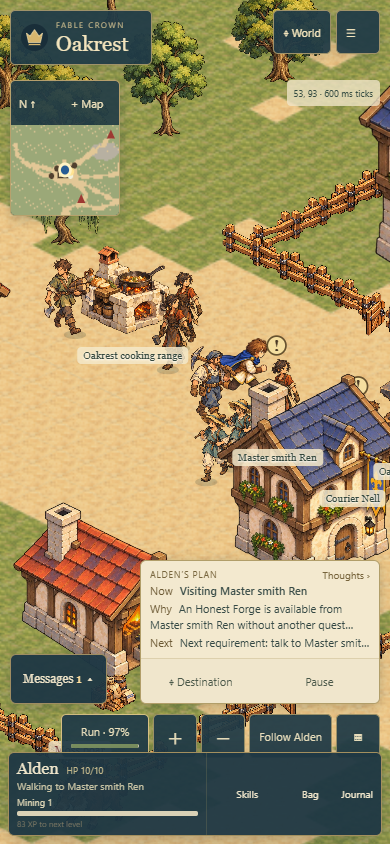
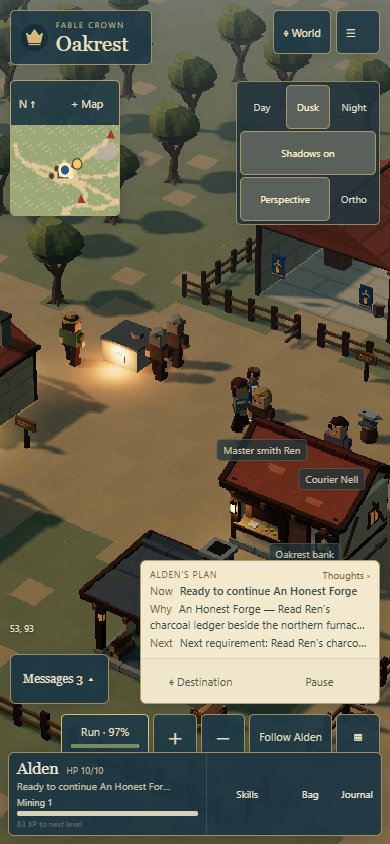
Make 3D the default game renderer

diff --git a/src/render/ThreeScene.tsx b/src/render/ThreeScene.tsx
@@ -9,9 +9,9 @@ import type { LightingPreset } from "./three/lighting";
 import "./tile-scene.css";
 import "./three/three-scene.css";
 
-export interface ThreeSceneProps extends TileSceneProps { onFallback?: () => void }
+export interface ThreeSceneProps extends TileSceneProps { onFallback: () => void }
 
-/** Optional renderer only: it consumes the same immutable snapshots as the painterly view. */
+/** The game view consumes immutable simulation snapshots. */
 export default function ThreeScene(props: ThreeSceneProps) {
   const root = useRef<HTMLDivElement>(null), canvas = useRef<HTMLCanvasElement>(null);
   const runtime = useRef<ThreeRuntime | null>(null);
@@ -47,10 +47,6 @@ export default function ThreeScene(props: ThreeSceneProps) {
     return () => { active = false; controller.abort(); runtime.current?.dispose(); runtime.current = null; };
   }, []);
   useEffect(() => { runtime.current?.update(latest.current); });
-  const fallback = () => {
-    if (props.onFallback) props.onFallback();
-    else { const url = new URL(location.href); url.searchParams.delete("renderer"); location.assign(url); }
-  };
   const bind = (key: string) => (element: HTMLElement | null) => {
     if (element) hits.current.set(key, element); else hits.current.delete(key);
   };
@@ -63,9 +59,10 @@ export default function ThreeScene(props: ThreeSceneProps) {
   return (
     <div ref={root} className="tile-world three-world" data-testid="rpg-world" data-renderer="3d" data-status={status} data-lighting={lighting} data-assets={assets.source} data-production-assets={assets.ids.join(",")}>
       <canvas ref={canvas} data-testid="three-canvas" aria-label="The 3D Fable Crown frontier. Drag to pan, wheel or pinch to zoom. Arrow keys pan when focused." tabIndex={0} />
-      {status !== "unavailable" && <>
-        <div className="three-light-controls" role="group" aria-label="3D lighting preview">
-          <span>3D TEST</span>
+      {status === "starting" && <div className="loading-screen" aria-live="polite">Opening the village…</div>}
+      {status === "ready" && <>
+        <div className="three-light-controls" role="group" aria-label="View settings">
+          <span>VIEW</span>
           {(["day", "dusk", "night"] as const).map(preset => <button key={preset} aria-label={`${preset[0].toUpperCase()}${preset.slice(1)} lighting`} aria-pressed={lighting === preset} onClick={() => setLighting(preset)}>{preset[0].toUpperCase()}{preset.slice(1)}</button>)}
           <button aria-label="Sun shadows" aria-pressed={shadows} onClick={() => setShadows(value => !value)}>Shadows {shadows ? "on" : "off"}</button>
           <button aria-label="Perspective camera" aria-pressed={cameraMode === "perspective"} onClick={() => setCameraMode("perspective")}>Perspective</button>
@@ -94,10 +91,21 @@ export default function ThreeScene(props: ThreeSceneProps) {
           {!props.camera.overview && props.state.grave && <button ref={bind("grave")} className="tile-grave" aria-label="Inspect your backpack grave" data-three-selection={JSON.stringify({ kind: "grave" })} onClick={event => keyboardSelect(event, { kind: "grave" })}><span>Backpack grave</span></button>}
           {(props.feedback ?? []).map(floater => <span ref={bind(`feedback-${floater.id}`)} className={`three-feedback three-feedback-${floater.tone}`} key={floater.id}>{floater.text}</span>)}
         </div>
-        {props.state.player.action && !props.state.player.path.length && <div className="tile-progress-accessible"><span role="progressbar" aria-label={`${props.state.player.action.kind} action progress`} aria-valuemin={0} aria-valuemax={props.state.player.action.duration} aria-valuenow={props.state.player.action.duration - props.state.player.action.remaining} /></div>}
-        <span className="three-test-note" title={assets.warning || undefined}>Pixel-textured 3D · {assets.source === "blender" ? "Blender assets" : assets.source === "loading" ? "Loading models…" : "Procedural models"} · {props.state.player.position.x}, {props.state.player.position.y}</span>
+        <div className="tile-progress-accessible">
+          {[props.state.player, ...props.state.npcs].filter(actor => actor.action && !actor.path.length &&
+            (actor.id === 0 || props.selection?.kind === "actor" && props.selection.id === actor.id)).map(actor => {
+            const action = actor.action!;
+            const object = world.objects.find(value => value.id === action.targetId);
+            const label = action.kind === "gather" ? object?.kind === "rock" ? "Mining" : object?.kind === "tree" ? "Woodcutting" : "Fishing"
+              : action.kind === "craft" ? action.recipeId?.includes("cook") ? "Cooking" : "Crafting" : action.kind;
+            return <span key={actor.id} role="progressbar" aria-label={`${label} action progress`} aria-valuemin={0}
+              aria-valuemax={action.duration} aria-valuenow={action.duration - action.remaining}
+              aria-valuetext={`${actor.name}: ${action.duration - action.remaining} of ${action.duration} ticks`} />;
+          })}
+        </div>
+        <span className="three-test-note">{props.state.player.position.x}, {props.state.player.position.y}</span>
       </>}
-      {status === "unavailable" && <section className="three-fallback" aria-label="3D renderer unavailable"><h2>3D view unavailable</h2><p>{failure}</p><button onClick={fallback}>Use painterly view</button></section>}
+      {status === "unavailable" && <section className="three-fallback" aria-label="3D renderer unavailable"><h2>3D view unavailable</h2><p>{failure}</p><button onClick={props.onFallback}>Use compatibility view</button></section>}
     </div>
   );
 }

diff --git a/tests/rpg-three.spec.ts b/tests/rpg-three.spec.ts
@@ -64,12 +64,11 @@ function waitingFixture() {
   return state;
 }
 
-test("3D is opt-in, issues real WebGL draws and preserves the chapter when switching", async ({ page }) => {
+test("the default game uses 3D and preserves the chapter and archives across reloads", async ({ page }) => {
   const errors: string[] = [];
   page.on("pageerror", (error) => errors.push(error.message));
   await page.goto("./");
-  await expect(page.getByTestId("rpg-world")).toBeVisible();
-  await expect(page.getByTestId("three-canvas")).toHaveCount(0);
+  await ready(page);
   const fixture = waitingFixture();
   await restore(page, fixture);
   const archive = createGame(Date.now());
@@ -85,7 +84,9 @@ test("3D is opt-in, issues real WebGL draws and preserves the chapter when switc
     };
   }), archive);
   await menu(page);
-  await page.getByRole("button", { name: "Use 3D test renderer" }).click();
+  await expect(page.getByRole("button", { name: "Use 3D test renderer" })).toHaveCount(0);
+  await expect(page.getByRole("button", { name: "Use painterly renderer" })).toHaveCount(0);
+  await expect(page.getByRole("button", { name: "Open asset viewer", exact: true })).toBeVisible();
   await closePanel(page);
   const world = await ready(page);
   await expect.poll(async () => Number(await world.getAttribute("data-draw-calls"))).toBeGreaterThan(0);
@@ -100,15 +101,16 @@ test("3D is opt-in, issues real WebGL draws and preserves the chapter when switc
   await page.getByTestId("rpg-world").getByRole("button", { name: "Inspect Alden", exact: true }).click();
   await expect(page.getByRole("region", { name: "Character details" })).toBeVisible();
   const before = await saved(page);
-  await menu(page);
-  await page.getByRole("button", { name: "Use painterly renderer" }).click();
-  await closePanel(page);
-  await expect(page.getByTestId("three-canvas")).toHaveCount(0);
+  await page.reload();
+  await ready(page);
   const after = await saved(page);
   expect(after.player.inventory).toEqual(before.player.inventory);
   expect(after.player.skills).toEqual(before.player.skills);
   expect(after.player.position).toEqual(before.player.position);
   expect(after.version).toBe(5);
+  // Existing shared preview links still open the same 3D game.
+  await page.goto("./?renderer=3d");
+  await ready(page);
   const archived = await page.evaluate(() => new Promise<unknown>((resolve, reject) => {
     const request = indexedDB.open("fable-crown", 1);
     request.onerror = () => reject(request.error);
@@ -213,8 +215,8 @@ test("3D camera and touch controls fit portrait and landscape without external r
   expect(errors).toEqual([]);
 });
 
-test("3D bundles and query route reload offline with the same saved chapter", async ({ page, context }) => {
-  await page.goto("./?renderer=3d");
+test("the default 3D game reloads offline with the same saved chapter", async ({ page, context }) => {
+  await page.goto("./");
   await ready(page);
   await restore(page, waitingFixture());
   const before = await saved(page);
@@ -227,7 +229,7 @@ test("3D bundles and query route reload offline with the same saved chapter", as
   try {
     await page.reload();
     await ready(page);
-    expect(new URL(page.url()).searchParams.get("renderer")).toBe("3d");
+    expect(new URL(page.url()).searchParams.has("renderer")).toBe(false);
     const after = await saved(page);
     expect(after.player.inventory).toEqual(before.player.inventory);
     expect(after.player.skills).toEqual(before.player.skills);
@@ -237,7 +239,7 @@ test("3D bundles and query route reload offline with the same saved chapter", as
   }
 });
 
-test("unavailable WebGL offers a working painterly fallback", async ({ page }) => {
+test("unavailable WebGL offers a working compatibility view without resetting the chapter", async ({ page }) => {
   await page.addInitScript(() => {
     const getContext = HTMLCanvasElement.prototype.getContext;
     HTMLCanvasElement.prototype.getContext = function (this: HTMLCanvasElement, ...args: Parameters<typeof getContext>) {
@@ -245,13 +247,20 @@ test("unavailable WebGL offers a working painterly fallback", async ({ page }) =
       return getContext.apply(this, args);
     } as typeof getContext;
   });
-  await page.goto("./?renderer=3d");
-  await page.getByRole("button", { name: "Use painterly view", exact: true }).click();
+  await page.goto("./");
+  const fixture = waitingFixture();
+  fixture.player.skills.woodcutting = 37;
+  await restore(page, fixture);
+  const before = await saved(page);
+  await page.getByRole("button", { name: "Use compatibility view", exact: true }).click();
   await expect(page.getByTestId("rpg-world")).toBeVisible();
   await expect(page.getByTestId("three-canvas")).toHaveCount(0);
-  expect(new URL(page.url()).searchParams.get("renderer")).not.toBe("3d");
   await page.getByRole("button", { name: "Open inventory" }).click();
   await expect(page.locator(".rpg-backpack button")).toHaveCount(28);
+  await closePanel(page);
+  const after = await saved(page);
+  expect(after.player.skills).toEqual(before.player.skills);
+  expect(after.player.inventory).toEqual(before.player.inventory);
 });
 
 test("all Blender assets load and switching camera projection preserves the saved character", async ({ page }) => {

diff --git a/src/rpg/RpgApp.tsx b/src/rpg/RpgApp.tsx
@@ -57,16 +57,7 @@ function download(value: unknown, name: string) {
   URL.revokeObjectURL(url);
 }
 export default function RpgApp() {
-  const [rendererMode, setRendererMode] = useState<"painterly" | "3d">(() =>
-    new URLSearchParams(location.search).get("renderer") === "3d" ? "3d" : "painterly",
-  );
-  const changeRenderer = (mode: "painterly" | "3d") => {
-    const url = new URL(location.href);
-    if (mode === "3d") url.searchParams.set("renderer", "3d");
-    else url.searchParams.delete("renderer");
-    history.replaceState(null, "", url);
-    setRendererMode(mode);
-  };
+  const [rendererMode, setRendererMode] = useState<"painterly" | "3d">("3d");
   const [state, setState] = useState<RpgState | null>(null),
     [camera, setCamera] = useState<TileCamera>({
       x: 52,
@@ -417,7 +408,7 @@ export default function RpgApp() {
       {state ? (
         <SceneHost
           mode={rendererMode}
-          onFallback={() => changeRenderer("painterly")}
+          onFallback={() => setRendererMode("painterly")}
           state={state}
           camera={camera}
           onCamera={setCamera}
@@ -1735,17 +1726,11 @@ export default function RpgApp() {
                 constant orders.
               </p>
               <div className="menu-grid">
-                <button
-                  aria-pressed={rendererMode === "3d"}
-                  onClick={() => changeRenderer(rendererMode === "3d" ? "painterly" : "3d")}
-                >
-                  {rendererMode === "3d" ? "Use painterly renderer" : "Use 3D test renderer"}
-                </button>
-                {rendererMode === "3d" && <button onClick={() => {
+                <button onClick={() => {
                   const url = new URL(location.href);
                   url.searchParams.set("assetReview", "1");
                   location.assign(url);
-                }}>Open art workbench</button>}
+                }}>Open asset viewer</button>
                 <button onClick={() => send("save")}>Save on device</button>
                 <button
                   onClick={() =>

diff --git a/tests/rpg-feel.spec.ts b/tests/rpg-feel.spec.ts
@@ -3,7 +3,7 @@ import { test, expect, type Page } from "@playwright/test";
 import { calendarDate, createRpg } from "../src/rpg/engine";
 import { ITEMS } from "../src/rpg/content";
 import { findPath } from "../src/rpg/world";
-import { tileToScreen } from "../src/render/iso";
+import { PerspectiveCamera, Vector3 } from "three";
 import type { RpgState } from "../src/rpg/types";
 
 const originalV4 = JSON.parse(
@@ -96,19 +96,23 @@ test("manual map movement is acknowledged and reaches its tile across mobile lay
   expect(target).toBeDefined();
   await importState(page, state);
   await expect(page.getByRole("status")).toContainText("Chronicle restored");
+  await page.getByRole("button", { name: "Close panel" }).click();
 
   const world = page.getByTestId("rpg-world");
+  await expect(world).toHaveAttribute("data-status", "ready");
+  await expect(world).toHaveAttribute("data-camera-x", "100.00");
+  await expect(world).toHaveAttribute("data-camera-y", "80.00");
   const bounds = await world.boundingBox();
   expect(bounds).not.toBeNull();
-  const zoom = 0.85;
-  const center = tileToScreen({
-    x: state.player.position.x,
-    y: state.player.position.y + 2 / zoom,
-  });
-  const destination = tileToScreen(target!);
+  const camera = new PerspectiveCamera(20, bounds!.width / bounds!.height, .1, 650);
+  const distance = (24 / .85) / (2 * Math.tan(Math.PI / 18));
+  camera.position.set(100, .4, 80).addScaledVector(new Vector3(32, 37, 45).normalize(), distance);
+  camera.lookAt(100, .4, 80);
+  camera.updateMatrixWorld();
+  const destination = new Vector3(target!.x, 0, target!.y).project(camera);
   const point = {
-    x: bounds!.width / 2 + (destination.x - center.x) * zoom,
-    y: bounds!.height / 2 + (destination.y - center.y) * zoom,
+    x: (destination.x + 1) * bounds!.width / 2,
+    y: (1 - destination.y) * bounds!.height / 2,
   };
   await page.mouse.click(bounds!.x + point.x, bounds!.y + point.y);
   await expect(page.getByLabel("Command acknowledgement")).toContainText(

diff --git a/src/render/SceneHost.tsx b/src/render/SceneHost.tsx
@@ -1,7 +1,8 @@
 import { Component, lazy, Suspense, type ReactNode } from "react";
-import TileScene, { type TileSceneProps } from "./TileScene";
+import type { TileSceneProps } from "./TileScene";
 
 const ThreeScene = lazy(() => import("./ThreeScene"));
+const CompatibilityScene = lazy(() => import("./TileScene"));
 
 class RendererBoundary extends Component<
   { children: ReactNode; onFallback: () => void },
@@ -13,23 +14,22 @@ class RendererBoundary extends Component<
     return this.state.failed ? (
       <div className="loading-screen" role="alert">
         <h2>The 3D view could not start</h2>
-        <p>Your journey can continue in the painterly view.</p>
-        <button onClick={this.props.onFallback}>Use painterly renderer</button>
+        <p>Your journey can continue in the compatibility view.</p>
+        <button onClick={this.props.onFallback}>Use compatibility view</button>
       </div>
     ) : this.props.children;
   }
 }
 
-/** Both views consume the same snapshots; switching never restarts the worker. */
+/** 3D is the game view; unsupported devices can keep playing the same saved chapter. */
 export function SceneHost({ mode, onFallback, ...props }: TileSceneProps & {
   mode: "painterly" | "3d";
   onFallback: () => void;
 }) {
-  if (mode !== "3d") return <TileScene {...props} />;
   return (
-    <RendererBoundary onFallback={onFallback}>
-      <Suspense fallback={<div className="loading-screen">Opening the 3D village…</div>}>
-        <ThreeScene {...props} onFallback={onFallback} />
+    <RendererBoundary key={mode} onFallback={onFallback}>
+      <Suspense fallback={<div className="loading-screen">Opening the village…</div>}>
+        {mode === "3d" ? <ThreeScene {...props} onFallback={onFallback} /> : <CompatibilityScene {...props} />}
       </Suspense>
     </RendererBoundary>
   );

diff --git a/README.md b/README.md
@@ -2,7 +2,7 @@
 
 [Play the demo](https://cudldev.github.io/Fable-Crown/) · [Tile RPG plan](docs/TILE_RPG_PLAN.md) · [Progress](docs/PROGRESS.md)
 
-A painterly autonomous RPG on a 256 × 192 isometric tile world with three settlements and 24 characters. Alden follows persistent ambitions; you guide his thoughts or give direct and queued orders. The Old School RuneScape reference informs tile movement, skills and preparation; the setting, quests and generated art are original.
+A 3D autonomous RPG on a 256 × 192 tile world with three settlements and 24 characters. Alden follows persistent ambitions; you guide his thoughts or give direct and queued orders. The Old School RuneScape reference informs tile movement, skills and preparation; the setting, quests and generated art are original.
 
 Ten skills progress separately: Woodcutting, Mining, Smithing, Fishing, Cooking, Attack, Strength, Defence, Hitpoints and Ranged. Gather trees, ores and fish with appropriate tools; smelt, smith and cook; trade real supplies for tools, armour, bows and ammunition. A 28-slot backpack, separate equipment and connected personal bank support longer journeys. Villagers keep their own supplies.
 
@@ -32,12 +32,12 @@ Progress saves in IndexedDB. V5 copies existing V4/V3 progress while retaining e
 
 ## Development and hosting
 
-An optional [3D renderer test](docs/THREE_RENDERER_TEST.md) is available locally with `?renderer=3d`, or through **Game menu → Use 3D test renderer**. It uses original low-poly pixel-textured assets and realtime lighting while sharing the existing simulation and saves. Add `&assetReview=1` for the independent art workbench. Seven editable Blender models, the [Blender MCP workflow](docs/ART_PIPELINE.md), and a [modeling skill](skills/fable-3d-art/SKILL.md) support further art iteration. The painterly view remains the default; switch back in the menu. This test is not a claim of a new public deployment.
+The [3D renderer](docs/THREE_RENDERER_TEST.md) is the default game view, with the current original low-poly assets, near-orthographic perspective and realtime lighting. No renderer query is required; existing `?renderer=3d` links remain valid. **Game menu → Open asset viewer** opens the independent workbench (`?assetReview=1`). Seven editable Blender models, the [Blender MCP workflow](docs/ART_PIPELINE.md), and a [modeling skill](skills/fable-3d-art/SKILL.md) support further art iteration. The earlier Canvas view loads only when requested after a graphics failure.
 
 Node 22.15+: `npm ci`, then `npm run dev`. Checks: `npm test`, `npm run typecheck`, `npm run build`, `npm run check:dist`, `npm run test:browser`. Chrome is used locally; CI installs Chromium. Playwright starts production preview. For Pages subpath verification set `GITHUB_REPOSITORY=cudldev/Fable-Crown` when building, and `DEMO_URL=http://127.0.0.1:4174/Fable-Crown/` for browser tests. Rebuild after changing the base; do not share a build directory across concurrent builds.
 
 GitHub Settings → Pages → Source: **GitHub Actions**. Push to main runs the gates and deploys. `GITHUB_REPOSITORY` derives the subpath; `VITE_BASE_PATH` overrides it. PWA scope is relative. No server, secret, API key, telemetry, hosted inference or required third-party runtime call.
 
-The deterministic TypeScript simulation is independent of rendering and uses 600 ms integer ticks. Canvas projects logical tiles into the painterly isometric view. [Original artwork and exact prompts](assets/generated/README.md) remain versioned. Characters use limited painted-cutout animation. Multiplayer, Grand Exchange, advanced combat, detailed social routines and optional browser-local narrative models remain outside this slice. Browser emulation is tested; no physical-device/FPS claim is made. Use one game tab per device.
+The deterministic TypeScript simulation is independent of rendering and uses 600 ms integer ticks. Three.js renders the logical tiles as a 3D world; movement, work and effects follow committed simulation results. Existing saves and [original artwork and exact prompts](assets/generated/README.md) are retained. Multiplayer, Grand Exchange, advanced combat, detailed social routines and optional browser-local narrative models remain outside this slice. Browser emulation is tested; no physical-device/FPS claim is made. Use one game tab per device.
 
 React/React DOM and Three.js are MIT licensed; dependency licenses accompany npm packages. Reference collages and older generated backdrops are retained as sources and never loaded by the tile game.

diff --git a/docs/WORKFLOW_MEMORY.md b/docs/WORKFLOW_MEMORY.md
@@ -2,12 +2,12 @@
 
 - Character workflow: establish a reviewed visual style before encoding the consistency skill or batching models. Current 3D concepts in assets/reference/character-style/ are exploratory; painterly alternative is not yet approved.
 
-- Authorized optional3D test: chunky RuneScape-inspired forms, pixel textures, JRPG characters, muted colours and atmospheric realtime lighting. Four shadowless local light slots plus one sun shadow; keep painterly default. User wants lead-owned design/integration and bounded specialist delegation. See THREE_RENDERER_TEST.md.
+- 3D is the approved default (2026-10-30), replacing2D: existing assets, near-ortho perspective, muted colours, four shadowless lights plus one sun shadow. No normal renderer toggle; Canvas only recovers from graphics failure. See THREE_RENDERER_TEST.md.
 - 3D art: use skills/fable-3d-art; one lead controls Blender MCP, modelers own separate recipes. Saved .blend → art:export → art:check → art:capture/workbench. Load a .blend and export in separate MCP requests so Blender restores context. Preserve draft checkpoints; image review is separate from technical passes.
 - Latest scope: FEEL_AND_OAKREST.md; stop after verified Pages. Simplified painterly Town Life,2:1buildings/single trees; compare gameplay scale.
 - Pure tile simulation → worker clock/saves → isometric Canvas. Lead owns contracts/integration; specialists own separate files. Sol High core, Sol Medium renderer, Luna Medium browser QA.
 - Gate each stage: unit tests, strict build, check:dist, browser. Serialize builds: another build can replace dist with a different base during browser tests.
-- Pages: cudldev/Fable-Crown. Live 3D test uses `?renderer=3d`; viewer adds `&assetReview=1`. Build GITHUB_REPOSITORY=cudldev/Fable-Crown; Playwright DEMO_URL=http://127.0.0.1:4174/Fable-Crown/. Preview inherits base from URL. Verify actual public release after CI.
+- Pages: cudldev/Fable-Crown. Main URL opens3D; viewer uses `?assetReview=1`; older `?renderer=3d` links still work. Build GITHUB_REPOSITORY=cudldev/Fable-Crown; Playwright DEMO_URL=http://127.0.0.1:4174/Fable-Crown/. Preview inherits base from URL. Verify actual public release after CI.
 - Windows npm certificate fix: NODE_USE_SYSTEM_CA=1; retain TLS. Localhost/git/network may need sandbox escalation. No paid services or reset redemption.
 - Current key v5 copies V4/V3; never overwrite archived v4/v3/v1. Real migration fixtures cover each prior chapter. Sources/prompts through assets/generated/v5; metadata merges across versions. Offline query reload uses cached index fallback.
 - Zoom regression: visible terrain must fit cache or use the far composite; benchmark close/far/overview. Ore quantities aggregate in saves/bank but occupy separate backpack slots. Replay no historical reward floaters after import/offline resume.

diff --git a/docs/THREE_RENDERER_TEST.md b/docs/THREE_RENDERER_TEST.md
@@ -1,12 +1,12 @@
-# Optional 3D renderer test
+# 3D game renderer
 
-User-authorized experiment, 2026-10-30: chunky RuneScape-inspired 3D shapes, coarse pixel textures, compact JRPG characters, muted colours and atmospheric realtime lighting. The existing painterly renderer remains the default. This is a presentation experiment on the current RPG, not a new progression chapter.
+User-approved main renderer, 2026-10-30: the existing 3D world and assets replace the 2D game representation. Current assets use chunky RuneScape-inspired shapes, coarse pixel textures, compact JRPG characters, muted colours and atmospheric realtime lighting. This changes presentation of the current RPG and preserves its progression chapter.
 
-## Open the test
+## Open the game
 
-Run `npm run dev`, then open `http://127.0.0.1:5173/?renderer=3d`. Alternatively, open the game menu and choose **Use 3D test renderer**. **Use painterly renderer** switches back without restarting the simulation. The renderer choice lives in the URL, not the saved RPG chapter. A production preview uses the same query under its configured repository subpath.
+Run `npm run dev`, then open `http://127.0.0.1:5173/`. The ordinary game URL opens 3D; earlier `?renderer=3d` links still work. **Game menu → Open asset viewer** opens the independent workbench. There is no regular 2D/3D switch. If graphics initialization or rendering fails, **Use compatibility view** loads the older Canvas renderer without restarting the simulation or changing saves. Reloading attempts 3D again.
 
-The views share the current worker, 600ms ticks, V5 saves, map coordinates, actions, inventory, progression and offline reconciliation. This experiment does not change collision or award items/XP. Use normal chronicle export if you want a separate copy of your journey.
+The renderer uses the current worker, 600ms ticks, V5 saves, map coordinates, actions, inventory, progression and offline reconciliation. It does not change collision or award items/XP. Existing chronicles and archived chapters remain usable.
 
 ## Rendering contract
 
@@ -37,4 +37,4 @@ Results are recorded in `docs/PROGRESS.md`. Publication was authorized on 2026-1
 - [3D game test](https://cudldev.github.io/Fable-Crown/?renderer=3d)
 - [Asset viewer](https://cudldev.github.io/Fable-Crown/?renderer=3d&assetReview=1)
 
-The unqualified site URL retains the painterly default. Deployment verification is recorded separately in the progress log.
+The unqualified site URL now opens 3D. Deployment verification is recorded separately in the progress log.

diff --git a/docs/ART_DIRECTION_CHANGELOG.md b/docs/ART_DIRECTION_CHANGELOG.md
@@ -1,5 +1,7 @@
 # Design change record — 2026-10-29
 
+2026-10-30: user approved the existing 3D renderer/assets as the main game representation, replacing the 2D default. Remove opt-in renderer selection and test labels; preserve gameplay and saves. Keep Canvas only as graphics-failure recovery. Further asset studies remain separate from this rendering change.
+
 Latest user direction supersedes the previous autonomous-adventurer-only, pixel-art demo. Project working title: **Fable Crown** (commercial name clearance not finalized). The game centers on a young prince autonomously growing a frontier settlement through individual villagers, RPG skills and player-influenced Thought & Intention choices. The visual direction is fully painterly, traditional Japanese fantasy illustration with watercolor/ink texture and simpler painted in-game characters. Pixel art and obligatory HD-2D pixel sprites are dropped. Keep mobile portrait/landscape, 600ms tick, hybrid calendar and 25%-speed capped offline progress, local narrative LLM with no API costs, GitHub Pages, orchestrator/subagent workflow, and the strict remaining 10% + one normal weekly reset planning budget. Prioritize a small workshop-construction vertical slice; defer large NPC stress tests, advanced combat and elaborate town systems. See GAME_DESIGN, ART_DIRECTION, DEMO_SCOPE_AND_ART.
 
 Expanded-world implementation: original generated raster terrain and transparent cutouts now provide runtime artwork. Full-browser camera, contextual overlays, close follow, three settlements and nine regions follow the approved expansion in EXPANDED_WORLD.md.

diff --git a/docs/PROGRESS.md b/docs/PROGRESS.md
@@ -1,5 +1,11 @@
 # Progress — 2026-10-29
 
+## Main game promoted to 3D — 2026-10-30
+
+User approved replacing the 2D representation with the existing 3D world/assets. The ordinary URL now initializes 3D, older preview URLs still work, and the normal renderer toggle/test labels are removed. The menu opens the standalone asset viewer. Canvas is lazy-loaded only after a graphics failure and user recovery choice; worker, saves and progression remain intact. Restored descriptive action-progress accessibility for Alden and inspected villagers; updated ground-click regression to use 3D projection and verify actual saved movement. Independent QA reviewed integration contracts. Further uncommitted asset experiments remain in the original workspace, outside this isolated release.
+
+Local gate:272unit tests, strict TypeScript/repository-base production build, asset/PWA validation and43/43browser scenarios pass (4.1min), with all ordinary gameplay scenarios using the default 3D route. Reviewed actual desktop/portrait screenshots. Checks cover earlier-save migration/archives, quests, gathering/crafting, combat/loot/graves, gates, manual movement, controls, graphics failure recovery, asset viewer and offline reload. No new art or performance claim. GitHub deployment and live verification pending.
+
 ## Character style exploration — 2026-10-30
 
 Study 02 (`alden-painterly-3d-v2.png`) adds broad directional brushwork and richer cloth/skin color variation while preserving Alden's design. Generated concept visually reviewed; Blender reproduction and user style acceptance remain pending.

diff --git a/docs/ART_DIRECTION.md b/docs/ART_DIRECTION.md
@@ -1,6 +1,6 @@
 # Fable Crown — Painterly Fantasy Art Direction (CURRENT)
 
-2026-10-30: the user authorized a separate optional [3D pixel-art renderer test](THREE_RENDERER_TEST.md), using chunky RuneScape-inspired shapes, JRPG characters and atmospheric realtime lighting. Its explicit test scope overrides the painterly rules below only when `?renderer=3d` is selected; the painterly renderer remains the default.
+2026-10-30 latest renderer approval: the user approved replacing the 2D game representation with the existing [3D renderer](THREE_RENDERER_TEST.md) and assets. 3D now opens at the ordinary game URL, using the established chunky shapes, near-orthographic perspective and atmospheric realtime lighting. Earlier painterly references below remain art-development context; their 2D/default rules are superseded. Promoting the renderer does not accept unfinished character or voxel experiments as production assets.
 
 ## Authoritative decision
 The game's visual style is **fully painterly, hand-illustrated traditional Japanese fantasy**, inspired by the *illustrative qualities* of classic fantasy RPG cover art, expressive watercolor-and-ink linework, and richly staged medieval fantasy. **Pixel art is no longer a requirement.** Earlier pixel/HD-2D references are superseded by this document. Do not apply pixelation, sprite-resolution limits, pixel-art shaders, nearest-neighbor scaling, or pixel textures merely to match older documents.

diff --git a/AGENTS.md b/AGENTS.md
@@ -1,4 +1,6 @@
 # Codex instructions
+LATEST RENDERER OVERRIDE (2026-10-30): The user approved replacing the 2D game representation with the existing 3D renderer. The ordinary URL opens 3D with the current assets, near-orthographic perspective and bounded realtime lighting. There is no normal renderer switch; the old Canvas view is retained only for graphics-failure recovery. Preserve simulation, saves and zero-cost/offline requirements. This supersedes earlier optional-test and 2D-default instructions; new art experiments still require their own visual acceptance.
+
 For 3D asset creation or quality iteration, modeler and art-review agents must read `skills/fable-3d-art/SKILL.md` and the relevant specialist reference. Execute the skill's visual review loop; technical export success does not establish art acceptance. The lead controls the shared Blender MCP session and integrates separate character/environment/prop work.
 
 Read all docs/ and tasks/MILESTONES.md. Implement milestones sequentially. Start M0 only unless asked to continue. Keep each milestone runnable, testable, and record results in docs/PROGRESS.md. Strict TypeScript; deterministic simulation separate from rendering; 600ms integer ticks; no client API keys; original placeholder art; no LLM required for basic gameplay. Test and build after each milestone. Never claim performance without benchmarks.
